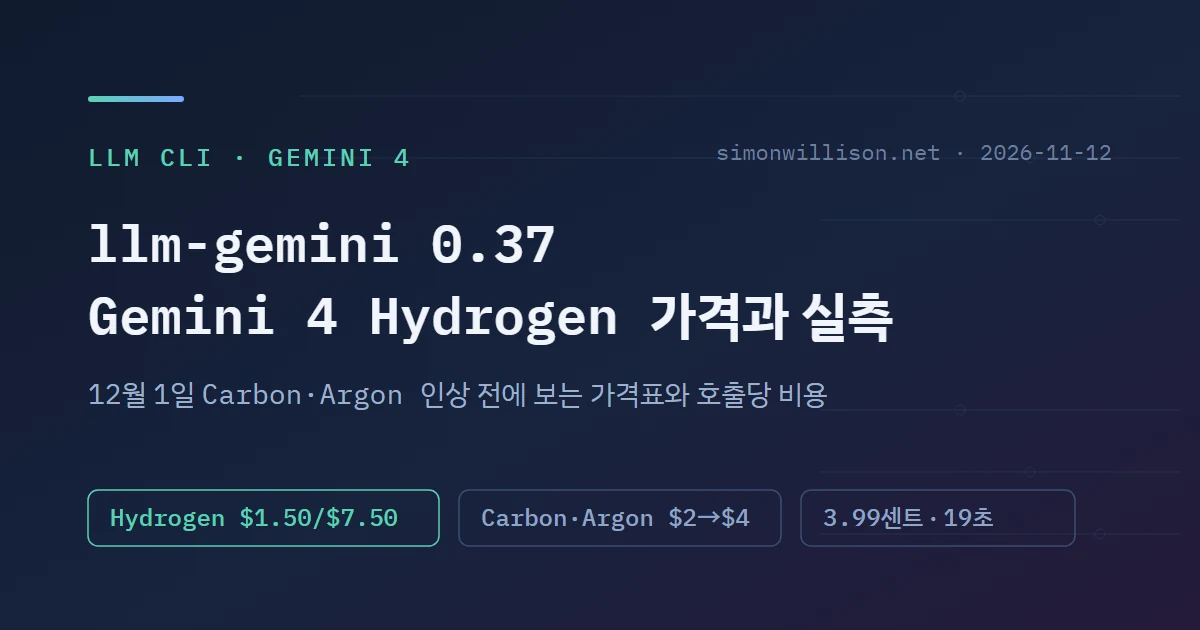
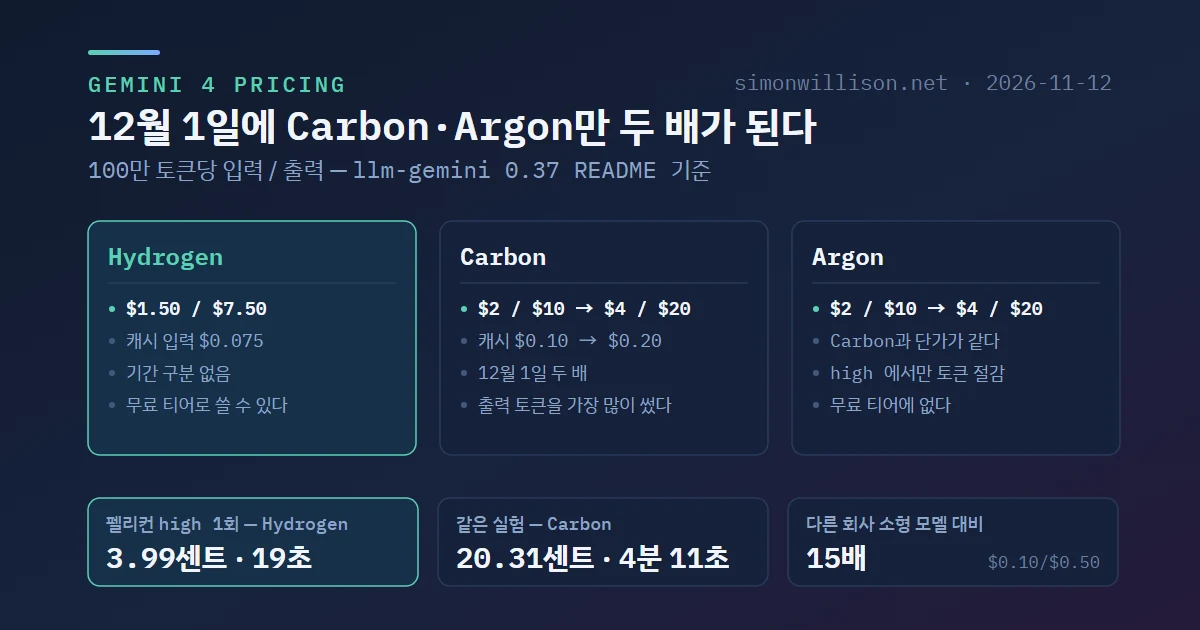
타이틀 이미지 다이어그램화 첫 적용: Gemini 4 가격 글을 3단 대조로
제목 이미지가 전부 "눈썹 + 제목 + 부제 + 칩" 한 틀이라 글이 달라도
그림이 같아 보였다. 구조가 뚜렷한 글은 본문 뼈대를 그대로 그리는
프리셋을 쓰기로 하고, 이 글을 versus(3단 대조)로 다시 만들었다.
Hydrogen·Carbon·Argon 을 같은 항목으로 나란히 두고 실측 수치는
아래 통계 띠로 끌어올렸다. 수치는 전부 본문에서 원문 대조를 마친 것이다.

생성기(make_title_image.py)에 flow·stack·split·versus 네 프리셋을 추가했다.

diff --git a/_posts/2026-11-13-llm-gemini-037-gemini-4-hydrogen.md b/_posts/2026-11-13-llm-gemini-037-gemini-4-hydrogen.md
@@ -5,7 +5,7 @@ title: "llm-gemini 0.37: Gemini 4 Hydrogen을 CLI에서 쓰기 전에 볼 가격
 description: "Simon Willison의 llm-gemini 0.37이 Gemini 4 Hydrogen을 지원한다. 설치와 키 설정, thinking_level 옵션을 README 기준으로 정리하고, 12월 1일 Carbon·Argon 가격 인상 전후의 가격표와 같은 프롬프트를 세 모델에 돌린 실측 비용·시간을 함께 본다."
 img: llm-gemini-037-gemini-4-hydrogen_title.webp
 date: 2026-11-13 19:30:00 +0900
-last_modified_at: 2026-11-13 19:30:00 +0900
+last_modified_at: 2026-11-15 18:55:00 +0900
 tags: [llm-serving, llm, gemini, gemini-4-hydrogen, llm-gemini, simon-willison, pricing]
 related: llm-serving
 categories: tools
